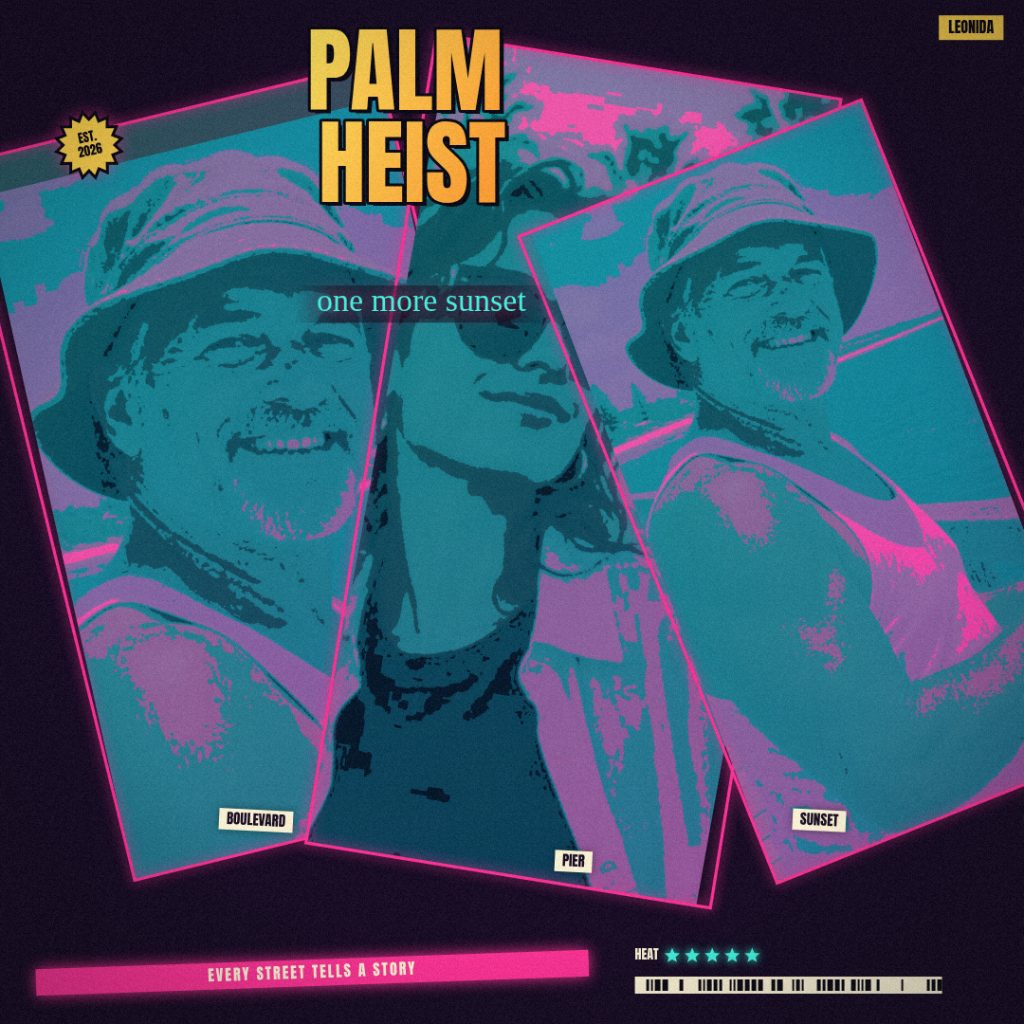
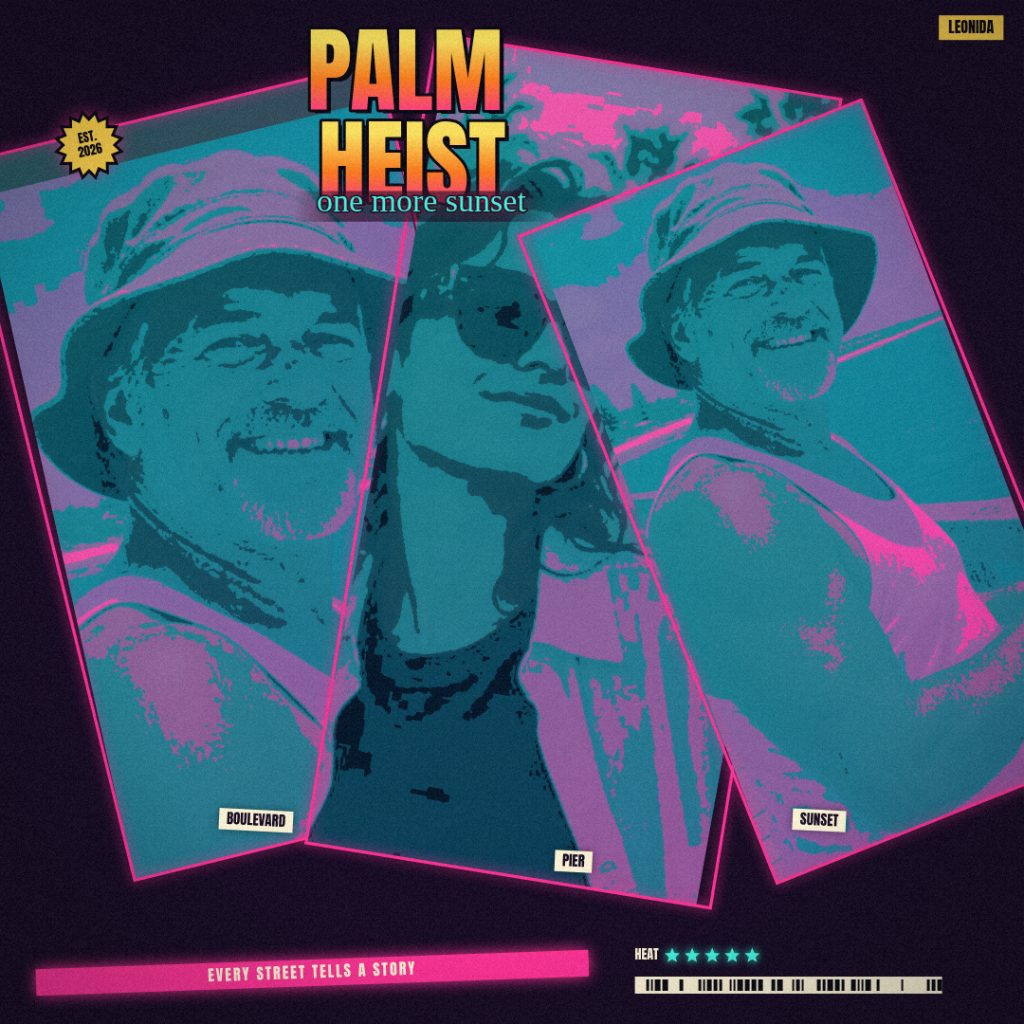
Fix v4: richer per-line title gradient + script overlaps title bottom row
- Title gradient now vertical per line (yellow #FFE45C cap -> orange
  #FF7A1A mid -> magenta #FF2E93 base inside each line's glyph height)
  instead of a zone-wide diagonal, so it reads as a real gradient, not
  a flat yellow block. Outline + hard offset shadow kept.
- Script subtitle 'one more sunset' now overlaps the bottom row of the
  title (~35-50% of script letter height into HEIST), like rank 1's
  stacked lockup. Dark stroke + stronger scrim keep it readable.
- Title size, returned bottom, striped bar, tagline, badge, HEAT and
  barcode positions unchanged.

Changed region(s): [[0.2812, 0.0312, 0.5312, 0.2188], [0.2812, 0.2812, 0.5312, 0.3125]]

diff --git a/app/src/cover.js b/app/src/cover.js
@@ -447,10 +447,9 @@ function paintTitleBlock(ctx, state, zone, W, H, reserve) {
   // first baseline at size*0.95, one size*0.98 step per line, then the subtitle.
   const blockHeight = (s) => s * 0.95 + titleLines.length * s * 0.98 + (state.subtitle.trim() ? Math.max(30, s * 0.34) : 0);
   while (size > 20 && blockHeight(size) > zone.h - (reserve || 0)) size -= 4;
-  const grad = ctx.createLinearGradient(zone.x, zone.y, zone.x + zone.w, zone.y + zone.h);
-  grad.addColorStop(0, '#FFE45C');
-  grad.addColorStop(0.5, '#FF7A1A');
-  grad.addColorStop(1, '#FF2E93');
+  // Title gradient is built per line, top-to-bottom across that line's own
+  // glyph height, so the full yellow -> orange -> pink run reads on every
+  // line instead of washing out across the whole zone diagonal.
   ctx.save();
   ctx.textAlign = 'left';
   ctx.textBaseline = 'alphabetic';
@@ -465,16 +464,27 @@ function paintTitleBlock(ctx, state, zone, W, H, reserve) {
     ctx.lineWidth = Math.max(6, size * 0.055);
     ctx.strokeStyle = '#05030F';
     ctx.strokeText(line, lx, y);
+    // Per-line vertical gradient: bright yellow cap -> saturated orange
+    // mid -> magenta base, the whole run inside one line's glyph height.
+    const grad = ctx.createLinearGradient(lx, y - size * 0.72, lx, y + size * 0.08);
+    grad.addColorStop(0, '#FFE45C');
+    grad.addColorStop(0.5, '#FF7A1A');
+    grad.addColorStop(1, '#FF2E93');
     ctx.fillStyle = grad;
     ctx.fillText(line, lx, y);
     y += size * 0.98;
   });
-  // Script subtitle tucked under the title, cyan with a magenta glow.
+  // Script subtitle OVERLAPS the title's bottom row (like rank 1's
+  // "Coastline Nights" tucked over "HEATWAVE"): its baseline sits just
+  // below the last title baseline, so ~35-50% of the script's letter
+  // height rides up into the bottom line. Dark stroke + scrim keep it
+  // readable where it crosses the lettering.
   if (state.subtitle.trim()) {
     const subSize = Math.round(Math.max(30, size * 0.34));
     const subText = state.subtitle.trim();
     const subX = zone.x + size * 0.1;
-    const subY = y + subSize * 0.55;
+    const lastBaseline = y - size * 0.98;
+    const subY = lastBaseline + size * 0.1;
     ctx.font = `${subSize}px Pacifico, cursive`;
     // Soft dark scrim behind the script so it stays readable where it sits
     // over a busy photo; horizontal gradient fades out at both ends.
@@ -482,13 +492,17 @@ function paintTitleBlock(ctx, state, zone, W, H, reserve) {
     const padX = subSize * 0.7;
     const scrim = ctx.createLinearGradient(subX - padX, 0, subX + subW + padX, 0);
     scrim.addColorStop(0, 'rgba(5,3,15,0)');
-    scrim.addColorStop(0.18, 'rgba(5,3,15,0.55)');
-    scrim.addColorStop(0.82, 'rgba(5,3,15,0.55)');
+    scrim.addColorStop(0.18, 'rgba(5,3,15,0.62)');
+    scrim.addColorStop(0.82, 'rgba(5,3,15,0.62)');
     scrim.addColorStop(1, 'rgba(5,3,15,0)');
     ctx.save();
     ctx.fillStyle = scrim;
-    ctx.fillRect(subX - padX, subY - subSize * 0.8, subW + padX * 2, subSize * 1.15);
+    ctx.fillRect(subX - padX, subY - subSize * 0.62, subW + padX * 2, subSize * 0.95);
     ctx.restore();
+    ctx.lineJoin = 'round';
+    ctx.lineWidth = Math.max(3, subSize * 0.1);
+    ctx.strokeStyle = '#05030F';
+    ctx.strokeText(subText, subX, subY);
     ctx.fillStyle = '#3FF6E0';
     ctx.shadowColor = '#FF2E93';
     ctx.shadowBlur = 22;
